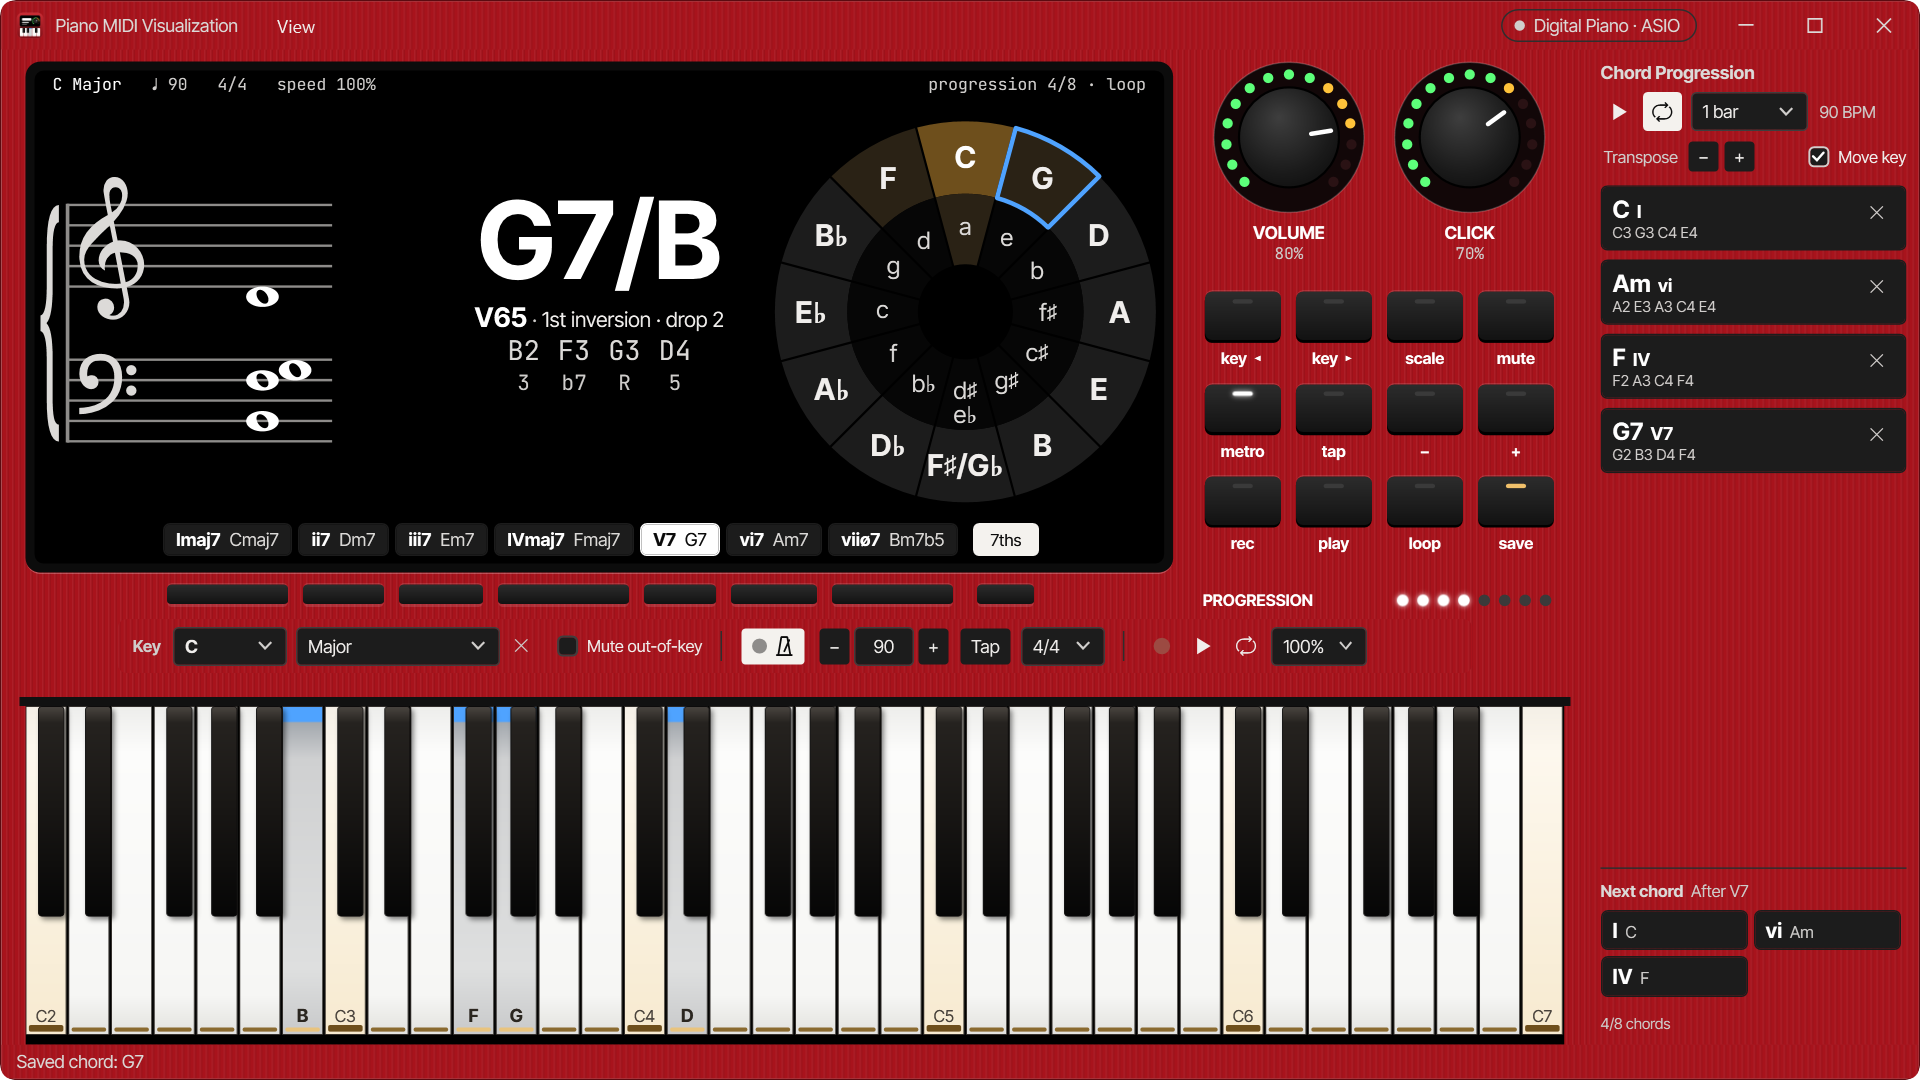
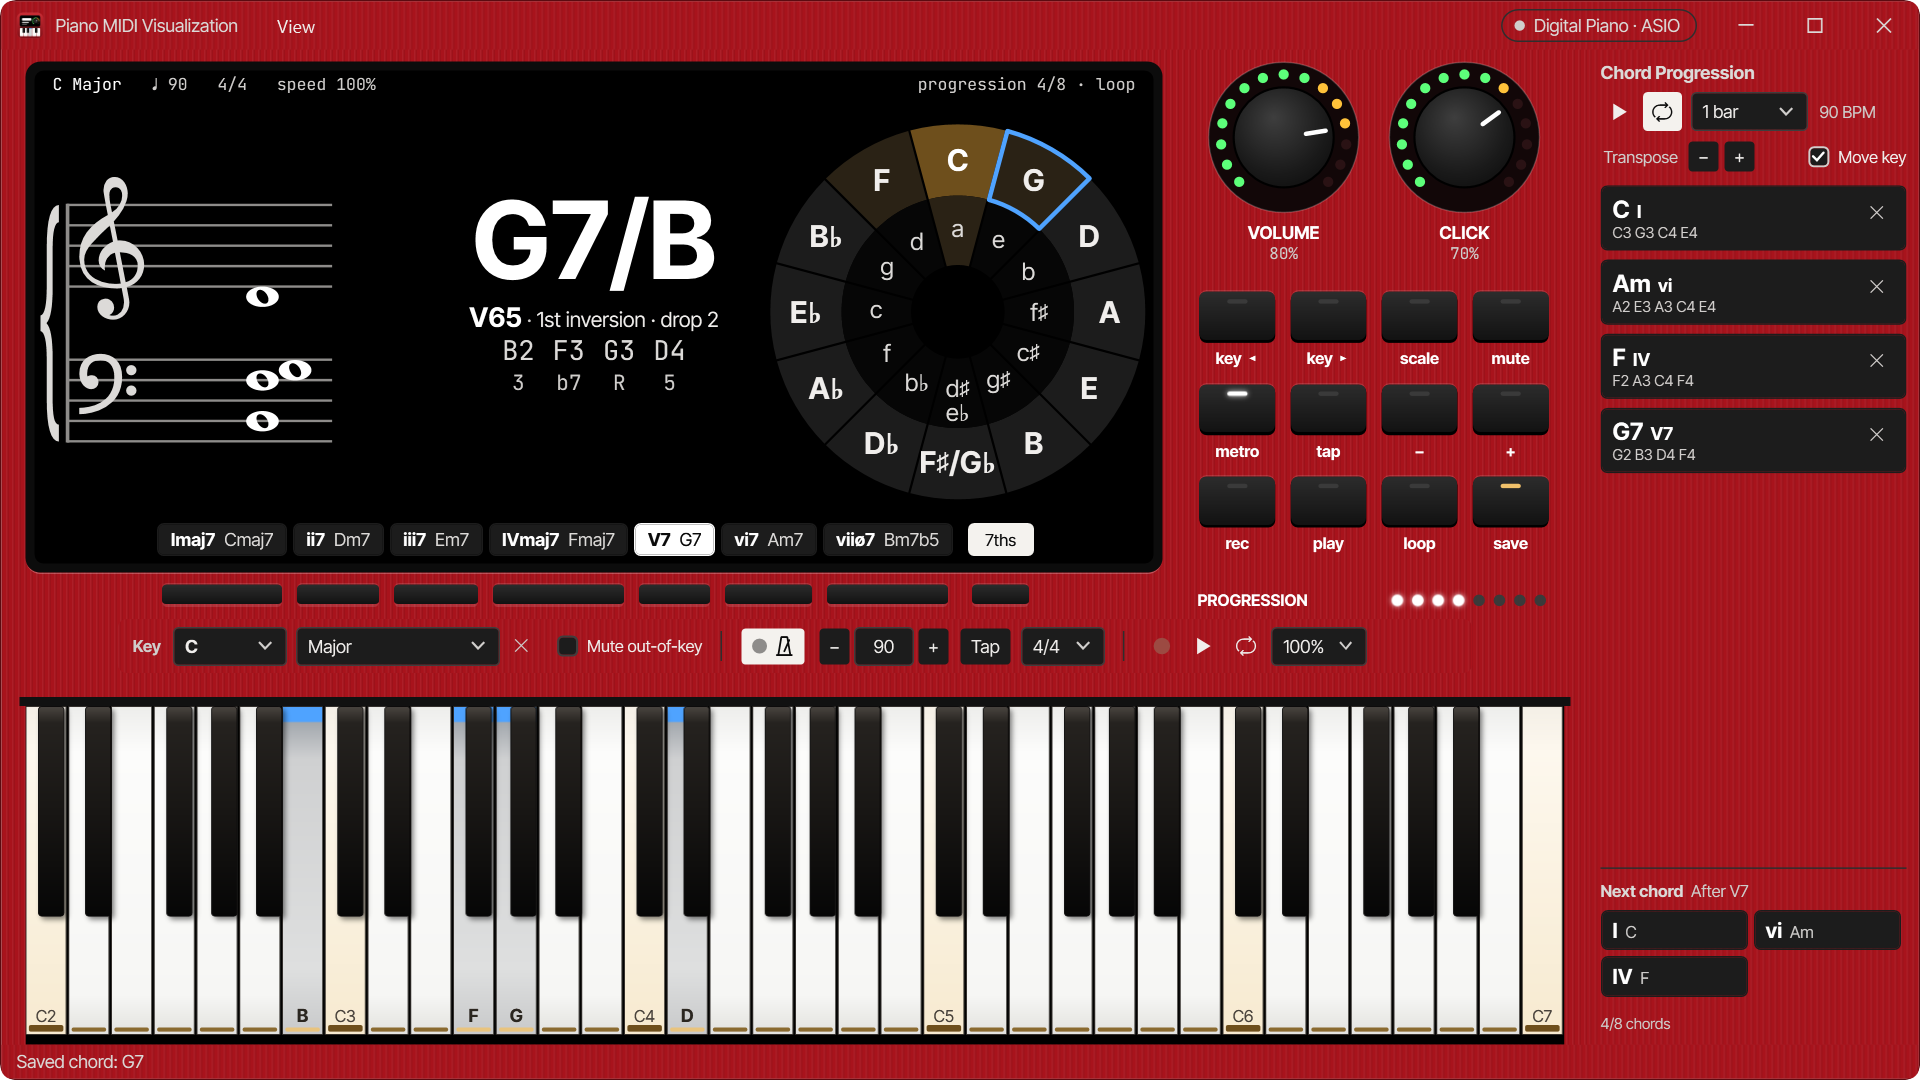
Keep the soft keys at 900x420, and fix the star row sizing to its content
A short stage now slims the soft keys and tightens the spacing instead of hiding them.
The real overflow came from the front panel's Auto column: a cell there spanning the
star readout row made WPF's Grid size that row to its content, so it stopped giving way
and the keyboard clipped. The column is now a pixel width set in code-behind.

diff --git a/src/PianoMidiVisualizationApp/MainWindow.xaml b/src/PianoMidiVisualizationApp/MainWindow.xaml
@@ -155,14 +155,18 @@
                          the Auto keyboard row would otherwise take everything and clip it.
                          The Viewbox scales down to whatever height is left. Trimmed from 170
                          to pay for the key selector without squeezing the keyboard at 900x420. -->
-                    <RowDefinition Height="*" MinHeight="120"/>   <!-- readout, or song practice -->
+                    <RowDefinition Height="*" MinHeight="110"/>   <!-- readout, or song practice -->
                     <RowDefinition Height="Auto"/>                <!-- diatonic chord strip -->
                     <RowDefinition Height="Auto"/>                <!-- practice toolbar -->
                     <RowDefinition Height="Auto"/>                <!-- keyboard -->
                 </Grid.RowDefinitions>
                 <Grid.ColumnDefinitions>
                     <ColumnDefinition Width="*"/>      <!-- the OLED window -->
-                    <ColumnDefinition Width="Auto"/>   <!-- the halo knobs beside it; zero when hidden -->
+                    <!-- The front panel beside it. A pixel width set from code-behind (zero while
+                         the panel is hidden), never Auto: an Auto column under a cell that spans
+                         the star row makes WPF size that row to its content, and the keyboard
+                         then clips at 900x420. -->
+                    <ColumnDefinition x:Name="FrontPanelColumn" Width="268"/>
                 </Grid.ColumnDefinitions>
 
                 <!-- The OLED window set into the scarlet panel: a black bezel with a lit lip,
@@ -175,8 +179,8 @@
                     <Border.Style>
                         <Style TargetType="Border">
                             <!-- While the chord strip shows, the bottom margin leaves its soft keys
-                                 on the panel below the window; a short stage folds them away
-                                 (IsCompact), and with no strip the window runs to the toolbar. -->
+                                 on the panel below the window (less on a short stage, where they
+                                 slim down: IsCompact); with no strip the window runs to the toolbar. -->
                             <Setter Property="Margin" Value="16,8,16,6"/>
                             <Style.Triggers>
                                 <MultiDataTrigger>
@@ -186,6 +190,15 @@
                                         <Condition Binding="{Binding IsCompact, RelativeSource={RelativeSource AncestorType=Window}}" Value="False"/>
                                     </MultiDataTrigger.Conditions>
                                     <Setter Property="Margin" Value="16,8,16,30"/>
+                                </MultiDataTrigger>
+                                <!-- Compact: the slimmer soft keys sit 14px up from the row's foot. -->
+                                <MultiDataTrigger>
+                                    <MultiDataTrigger.Conditions>
+                                        <Condition Binding="{Binding IsChordStripVisible}" Value="True"/>
+                                        <Condition Binding="{Binding ChordStrip.HasChords}" Value="True"/>
+                                        <Condition Binding="{Binding IsCompact, RelativeSource={RelativeSource AncestorType=Window}}" Value="True"/>
+                                    </MultiDataTrigger.Conditions>
+                                    <Setter Property="Margin" Value="16,8,16,14"/>
                                 </MultiDataTrigger>
                                 <DataTrigger Binding="{Binding IsSongPracticeVisible}" Value="True">
                                     <Setter Property="Visibility" Value="Collapsed"/>
@@ -200,11 +213,15 @@
                      progression on the right, as a hardware display's status bar reads. It
                      sits at the top of the readout row, which shrinks to fit, rather than in a
                      row of its own that would take height from the keyboard at 900x420. -->
-                <DockPanel Grid.Row="1" Margin="34,16,34,0" VerticalAlignment="Top" IsHitTestVisible="False"
+                <DockPanel Grid.Row="1" VerticalAlignment="Top" IsHitTestVisible="False"
                            TextElement.FontFamily="{StaticResource Font.Data}" TextElement.FontSize="11">
                     <DockPanel.Style>
                         <Style TargetType="DockPanel">
+                            <Setter Property="Margin" Value="34,16,34,0"/>
                             <Style.Triggers>
+                                <DataTrigger Binding="{Binding IsCompact, RelativeSource={RelativeSource AncestorType=Window}}" Value="True">
+                                    <Setter Property="Margin" Value="34,8,34,0"/>
+                                </DataTrigger>
                                 <DataTrigger Binding="{Binding IsSongPracticeVisible}" Value="True">
                                     <Setter Property="Visibility" Value="Collapsed"/>
                                 </DataTrigger>
@@ -236,7 +253,7 @@
                      shortcut for something the toolbar or a shortcut also does. Shrinks on a
                      short window; hidden in song practice (the lane needs the full width) and in
                      zen mode, which keeps only the window and the keys. -->
-                <Viewbox Grid.Row="0" Grid.RowSpan="3" Grid.Column="1" Margin="0,8,18,6"
+                <Viewbox x:Name="FrontPanel" Grid.Row="0" Grid.RowSpan="3" Grid.Column="1" Margin="0,8,18,6"
                          Stretch="Uniform" StretchDirection="DownOnly" VerticalAlignment="Center">
                     <Viewbox.Style>
                         <Style TargetType="Viewbox">
@@ -468,11 +485,17 @@
                      the readout leaves, so it stays centred whichever side panels are shown. Each
                      side panel should hug its outer edge: its column's width changes with the
                      chord name's length, and a panel centred in it would slide as you played. -->
-                <Grid Grid.Row="1" Margin="10,34,10,0">
-                    <!-- Song practice takes this row over, hiding all three columns together. -->
+                <Grid Grid.Row="1">
+                    <!-- Song practice takes this row over, hiding all three columns together. The
+                         top margin clears the OLED's status line; a short stage tightens both,
+                         since this row's height is its content's, and it is what overflows. -->
                     <Grid.Style>
                         <Style TargetType="Grid">
+                            <Setter Property="Margin" Value="10,34,10,0"/>
                             <Style.Triggers>
+                                <DataTrigger Binding="{Binding IsCompact, RelativeSource={RelativeSource AncestorType=Window}}" Value="True">
+                                    <Setter Property="Margin" Value="10,22,10,0"/>
+                                </DataTrigger>
                                 <DataTrigger Binding="{Binding IsSongPracticeVisible}" Value="True">
                                     <Setter Property="Visibility" Value="Collapsed"/>
                                 </DataTrigger>
@@ -723,7 +746,7 @@
                             <Setter Property="Margin" Value="28,0,28,8"/>
                             <Style.Triggers>
                                 <DataTrigger Binding="{Binding IsCompact, RelativeSource={RelativeSource AncestorType=Window}}" Value="True">
-                                    <Setter Property="Margin" Value="28,0,28,16"/>
+                                    <Setter Property="Margin" Value="28,0,28,4"/>
                                 </DataTrigger>
                                 <MultiDataTrigger>
                                     <MultiDataTrigger.Conditions>
@@ -767,6 +790,12 @@
                             <Setter Property="Padding" Value="10,5"/>
                             <Setter Property="Background" Value="{StaticResource Brush.Surface}"/>
                             <Style.Triggers>
+                                <!-- A short stage tightens the spacing so the soft keys fit. Before
+                                     the song-practice trigger, which wins when both apply. -->
+                                <DataTrigger Binding="{Binding IsCompact, RelativeSource={RelativeSource AncestorType=Window}}" Value="True">
+                                    <Setter Property="Margin" Value="0,0,0,2"/>
+                                    <Setter Property="Padding" Value="10,3"/>
+                                </DataTrigger>
                                 <DataTrigger Binding="{Binding IsZenMode}" Value="True">
                                     <Setter Property="Visibility" Value="Collapsed"/>
                                 </DataTrigger>
@@ -1005,11 +1034,15 @@
                      margin, the falling notes' hit line is exactly the keys' top edge. -->
                 <!-- The felt strip the keys sit behind, across the panel. Not in song practice,
                      where the lane's bottom edge has to be the keys' top edge. -->
-                <Rectangle Grid.Row="4" Grid.ColumnSpan="2" Height="6" VerticalAlignment="Top" Margin="12,10,12,0"
+                <Rectangle Grid.Row="4" Grid.ColumnSpan="2" Height="6" VerticalAlignment="Top"
                            Fill="{StaticResource Brush.Felt}" IsHitTestVisible="False">
                     <Rectangle.Style>
                         <Style TargetType="Rectangle">
+                            <Setter Property="Margin" Value="12,10,12,0"/>
                             <Style.Triggers>
+                                <DataTrigger Binding="{Binding IsCompact, RelativeSource={RelativeSource AncestorType=Window}}" Value="True">
+                                    <Setter Property="Margin" Value="12,2,12,0"/>
+                                </DataTrigger>
                                 <DataTrigger Binding="{Binding IsSongPracticeVisible}" Value="True">
                                     <Setter Property="Visibility" Value="Collapsed"/>
                                 </DataTrigger>
@@ -1024,6 +1057,9 @@
                         <Style TargetType="Viewbox">
                             <Setter Property="Margin" Value="16,16,16,0"/>
                             <Style.Triggers>
+                                <DataTrigger Binding="{Binding IsCompact, RelativeSource={RelativeSource AncestorType=Window}}" Value="True">
+                                    <Setter Property="Margin" Value="16,8,16,0"/>
+                                </DataTrigger>
                                 <DataTrigger Binding="{Binding IsSongPracticeVisible}" Value="True">
                                     <Setter Property="Margin" Value="16,0"/>
                                 </DataTrigger>

diff --git a/src/PianoMidiVisualizationApp/Themes/Dark.xaml b/src/PianoMidiVisualizationApp/Themes/Dark.xaml
@@ -716,10 +716,13 @@
         <Setter Property="BorderThickness" Value="0,1,0,2"/>
         <Setter Property="SnapsToDevicePixels" Value="True"/>
         <Style.Triggers>
-            <!-- A short stage (MainWindow.IsCompact) folds the soft keys away: their 34px is
-                 what the keyboard needs at 900x420. The labels still click. -->
+            <!-- A short stage (MainWindow.IsCompact) keeps the soft keys but makes them slimmer
+                 and closer: 8px keys 10px below the labels, 18px less than the full size,
+                 which is what the keyboard needs at 900x420. -->
             <DataTrigger Binding="{Binding IsCompact, RelativeSource={RelativeSource AncestorType=Window}}" Value="True">
-                <Setter Property="Visibility" Value="Collapsed"/>
+                <Setter Property="Height" Value="8"/>
+                <Setter Property="Margin" Value="3,10,3,0"/>
+                <Setter Property="BorderThickness" Value="0,1,0,1"/>
             </DataTrigger>
         </Style.Triggers>
     </Style>
@@ -754,7 +757,11 @@
                             <Setter Property="Foreground" Value="{StaticResource Brush.On.Ink}"/>
                         </Trigger>
                         <Trigger Property="IsPressed" Value="True">
-                            <Setter TargetName="Key" Property="Margin" Value="3,19,3,-1"/>
+                            <Setter TargetName="Key" Property="RenderTransform">
+                                <Setter.Value>
+                                    <TranslateTransform Y="1"/>
+                                </Setter.Value>
+                            </Setter>
                         </Trigger>
                     </ControlTemplate.Triggers>
                 </ControlTemplate>
@@ -794,7 +801,11 @@
                     </StackPanel>
                     <ControlTemplate.Triggers>
                         <Trigger Property="IsPressed" Value="True">
-                            <Setter TargetName="Key" Property="Margin" Value="3,19,3,-1"/>
+                            <Setter TargetName="Key" Property="RenderTransform">
+                                <Setter.Value>
+                                    <TranslateTransform Y="1"/>
+                                </Setter.Value>
+                            </Setter>
                         </Trigger>
                     </ControlTemplate.Triggers>
                 </ControlTemplate>

diff --git a/src/PianoMidiVisualizationApp/MainWindow.xaml.cs b/src/PianoMidiVisualizationApp/MainWindow.xaml.cs
@@ -45,8 +45,28 @@ public partial class MainWindow : Window
         InitializeComponent();
         Loaded += OnLoaded;
         WindowFrame.SizeChanged += (_, _) => UpdateWindowClip();
-        Stage.SizeChanged += (_, _) => IsCompact = Stage.ActualHeight < CompactStageHeight;
+        Stage.SizeChanged += (_, _) =>
+        {
+            IsCompact = Stage.ActualHeight < CompactStageHeight;
+            UpdateFrontPanelColumn();
+        };
+        FrontPanel.IsVisibleChanged += (_, _) => UpdateFrontPanelColumn();
         StateChanged += (_, _) => UpdateWindowClip();
+    }
+
+    /// <summary>The front panel's width at full size (250 plus its 18px right margin), and on a short stage.</summary>
+    private const double FrontPanelWidth = 268, CompactFrontPanelWidth = 170;
+
+    /// <summary>
+    /// Sizes the front panel's column in pixels: full width, narrower on a short stage (the
+    /// panel scales down there anyway), nothing while it is hidden. See the column's comment
+    /// in MainWindow.xaml for why it can't simply be Auto.
+    /// </summary>
+    private void UpdateFrontPanelColumn()
+    {
+        double width = FrontPanel.Visibility != Visibility.Visible ? 0
+            : IsCompact ? CompactFrontPanelWidth : FrontPanelWidth;
+        FrontPanelColumn.Width = new GridLength(width);
     }
 
     /// <summary>

diff --git a/DESIGN.md b/DESIGN.md
@@ -222,7 +222,9 @@ Both are SIL OFL 1.1 (THIRD-PARTY-NOTICES.txt), and their pack URIs are assembly
 
 A single fixed-structure window, minimum 900x420, default 1400x620, with 10px rounded corners: the window is transparent and `WindowFrame`, a border with the panel brush and a darker rim (`Brush.Window.Rim`), is clipped to a rounded rectangle in code-behind (square while maximised). Rows: a 32px title bar on the panel; the stage; then the recorder, MIDI log, AI chat and status bar as collapsible rows. The stage's left column has two columns of its own: the OLED window (star width) and the halo knobs (Auto, so it takes no room when they hide). The OLED window spans the stage's first three rows (practice toolbar, readout, chord strip), inset 16px from the panel edges with a 6px bezel. The practice toolbar and the keyboard span both columns below it. The chord-progression sidebar is a fixed 220px column on the panel.
 
-The OLED's status line sits at the top of the readout row, not in a row of its own, so it shrinks with the readout. While the chord strip shows, the window stops 30px short of the strip's row bottom so the soft keys sit on the panel below its bezel. On a short stage (under 480px, `MainWindow.IsCompact`) the soft keys fold away and the window runs to the strip again: the stage has only ~24px to spare at 900x420, and the keyboard clips rather than shrinks.
+The OLED's status line sits at the top of the readout row, not in a row of its own, so it shrinks with the readout. While the chord strip shows, the window stops 30px short of the strip's row bottom so the soft keys sit on the panel below its bezel. On a short stage (under 480px, `MainWindow.IsCompact`) everything stays but tightens: the soft keys slim to 8px, 10px under their labels, the window stops 14px short of the row, and the status line, the readout's top margin, the toolbar's and the keyboard's spacing all close up. The stage has only ~24px to spare at 900x420, and the keyboard clips rather than shrinks.
+
+The front panel's column is a pixel width set in code-behind (268, 170 when compact, 0 while hidden), never Auto: a cell in an Auto column that spans the star row, alongside cells in Auto rows of the star column, makes WPF's Grid size that star row to its content, which pushed the keyboard off the bottom.
 
 Song practice hides the OLED window and the panel, and drops the felt strip, so the falling-notes lane runs edge to edge and its bottom is the keys' top edge. Zen mode keeps the window and the keys and hides the knobs.
 
@@ -266,7 +268,7 @@ Piano character's ivory keytops and beveled ebony sharps with its amber key-cent
 Twelve 52x34 black rubber keys in a 4x3 grid under the knobs, in K's order: key ◂, key ▸ (a step down or up the circle of fifths), scale (the next scale on the same tonic), mute (out-of-key), metro, tap, − and + (tempo), rec, play and loop (the selected take), save. Each has a 2px black skirt, a lit top edge, an LED bar set into its top (`Style.PanelLed`) and a lowercase legend under it (`Style.PanelLegend`). An LED lights white for a state that is on (mute, metronome, playing, looping), red while recording is armed, and amber on save while there is a chord to save. Under the grid, PROGRESSION and eight LEDs lit for each saved chord. Never focusable; every key does something the toolbar, a shortcut or a menu also does.
 
 ### Diatonic Chord Strip (signature)
-Soft keys: each tile is a 22px black rubber label on the OLED's bottom edge, Legend Tertiary text with a white SemiBold numeral, and under it, 18px lower and past the bezel, a 16px physical key (`Style.SoftKeyCap`) that dips when pressed; the whole column is one button. The played tile's label turns white with Ink for both name and numeral (`Brush.ChordTile.PlayedInk`). A hovered tile takes a magenta outline. The 7ths switch is a soft key too (`Style.SoftKeyToggle`), white with Ink while on. Never focusable.
+Soft keys: each tile is a 22px black rubber label on the OLED's bottom edge, Legend Tertiary text with a white SemiBold numeral, and under it, 18px lower and past the bezel, a 16px physical key (`Style.SoftKeyCap`; 8px and 10px lower on a short stage) that dips 1px when pressed; the whole column is one button. The played tile's label turns white with Ink for both name and numeral (`Brush.ChordTile.PlayedInk`). A hovered tile takes a magenta outline. The 7ths switch is a soft key too (`Style.SoftKeyToggle`), white with Ink while on. Never focusable.
 
 ### App Icon
 `app.ico` (16 to 256px) and `app.png` (the title bar's 18px image): the panel in miniature. A scarlet tile with a black OLED window showing a white chord bar and a lit halo knob, over real white and black keys with one held key lit blue. Drawn by script, with the grain and the small text lines dropped below 32px.
